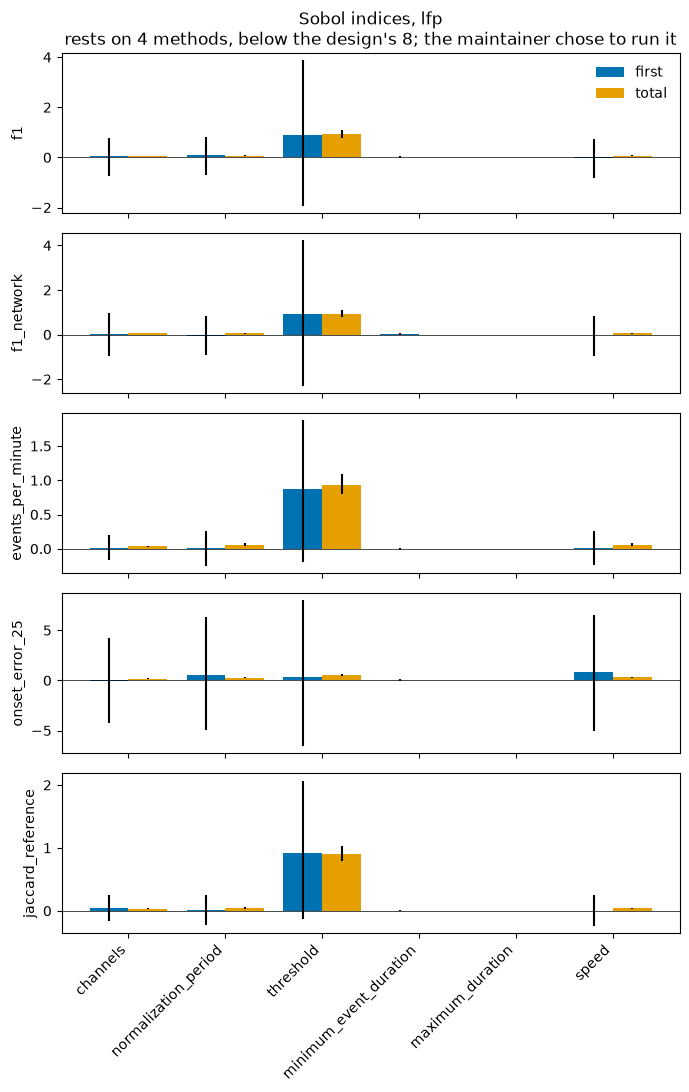
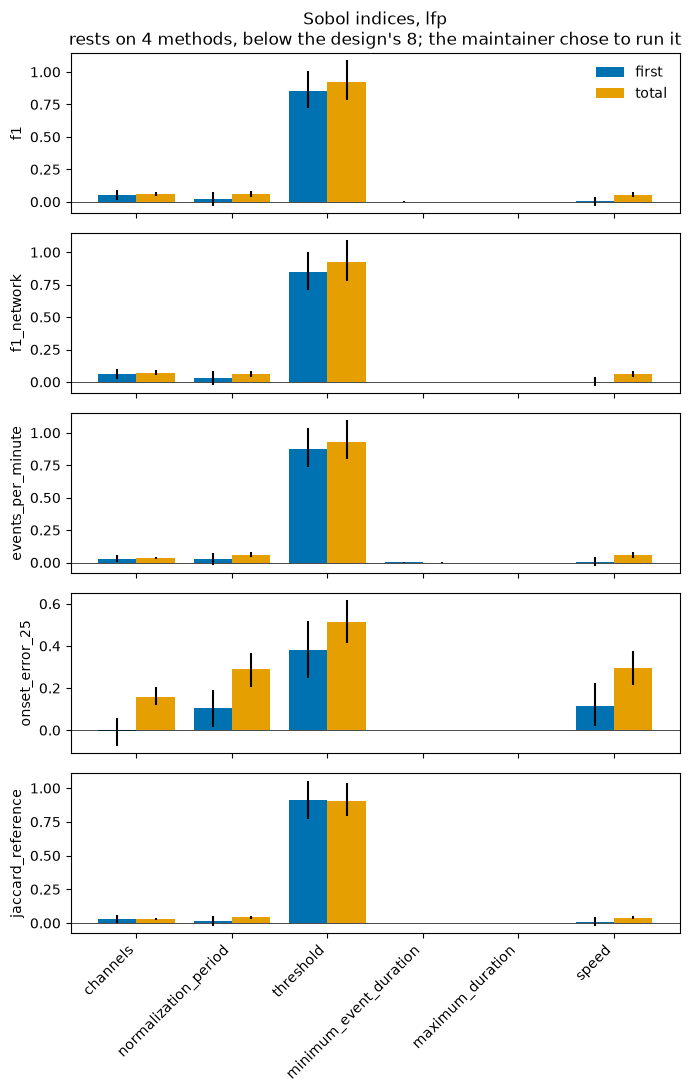
Attribution v1: Sobol tables rebuilt with centred first-order estimates
Both families rerun with --analysis sobol (lfp with --below-minimum): the raw
rows came out identical to the saved ones and the totals are unchanged. Spike
F1 bound_fraction 0.416 -> 0.137; the LFP F1 threshold's interval width 5.81
-> 0.29. The README's caveat said the first-order estimates summed past 1 from
noise at N = 256; that was the uncentred estimator.

diff --git a/.claude/docs/plans/detector-benchmark/designs.md b/.claude/docs/plans/detector-benchmark/designs.md
@@ -1111,8 +1111,16 @@ decided during the phase:
   family reference for every distinct template and the ten lowest-agreement pairs; wall 9 min
   52 s (spikes) and 6 min 42 s (lfp) at 8 workers after caching binned traces and pipeline
   stages and grouping configurations (0.65 to 0.077 s per spike configuration, outputs
-  identical). At N = 256 the first-order estimates are noisier than the totals (spike
-  first-order estimates sum past 1); indices are read with their intervals.
+  identical). Indices are read with their intervals.
+- **Centred first-order estimates** (after an external review, 2026-09-28). The first-order
+  estimator of run v1 used uncentred outputs (the code above now centres them), so its
+  estimates moved with the outputs' origin and their intervals were inflated: spike F1
+  `bound_fraction` 0.416 (-0.109, 0.844) became 0.137 (0.051, 0.226), the LFP F1
+  threshold's interval width 5.81 became 0.29, and the spike F1 first-order estimates,
+  which summed to 1.33, sum to 0.96. The spike first-order estimates summing past 1 was this
+  bug, not noise at N = 256. Both families' Sobol tables were rebuilt from the same
+  configurations (`--analysis sobol`); the raw rows came out identical and the totals are
+  unchanged.
 
 ## Rates and participation
 

diff --git a/examples/benchmark/README.md b/examples/benchmark/README.md
@@ -835,7 +835,11 @@ uv run python examples/benchmark/attribution.py --run-name v1 --family lfp \
 ```
 
 took 9 min 52 s (`spikes`) and 6 min 42 s (`lfp`) wall, at most 4.2 GB in the main
-process. Sobol's first-order indices are estimated with more noise than the totals at
-`N = 256`: on `spikes` a factor's first-order estimate can exceed its total and the
-first-order estimates sum past 1, which the exact values cannot; read each index with its
-interval.
+process. The first-order estimator centres the outputs on their mean before its product.
+The first version did not, so its estimates moved with the outputs' origin (adding 10 to
+every spike F1 took `bound_fraction`'s from 0.42 to 4.9) and their intervals were several
+times wider; that, not `N = 256`, is why the spike F1 first-order estimates summed past 1
+(1.33; 0.96 centred). Both families' Sobol tables were rebuilt from the saved rows, which
+the rebuild reproduced exactly. Centred, a first-order estimate still exceeds its total
+here and there (16 of 60 `spikes` indices, by at most 0.045, each total inside the
+first-order interval), which the exact values cannot: read each index with its interval.
